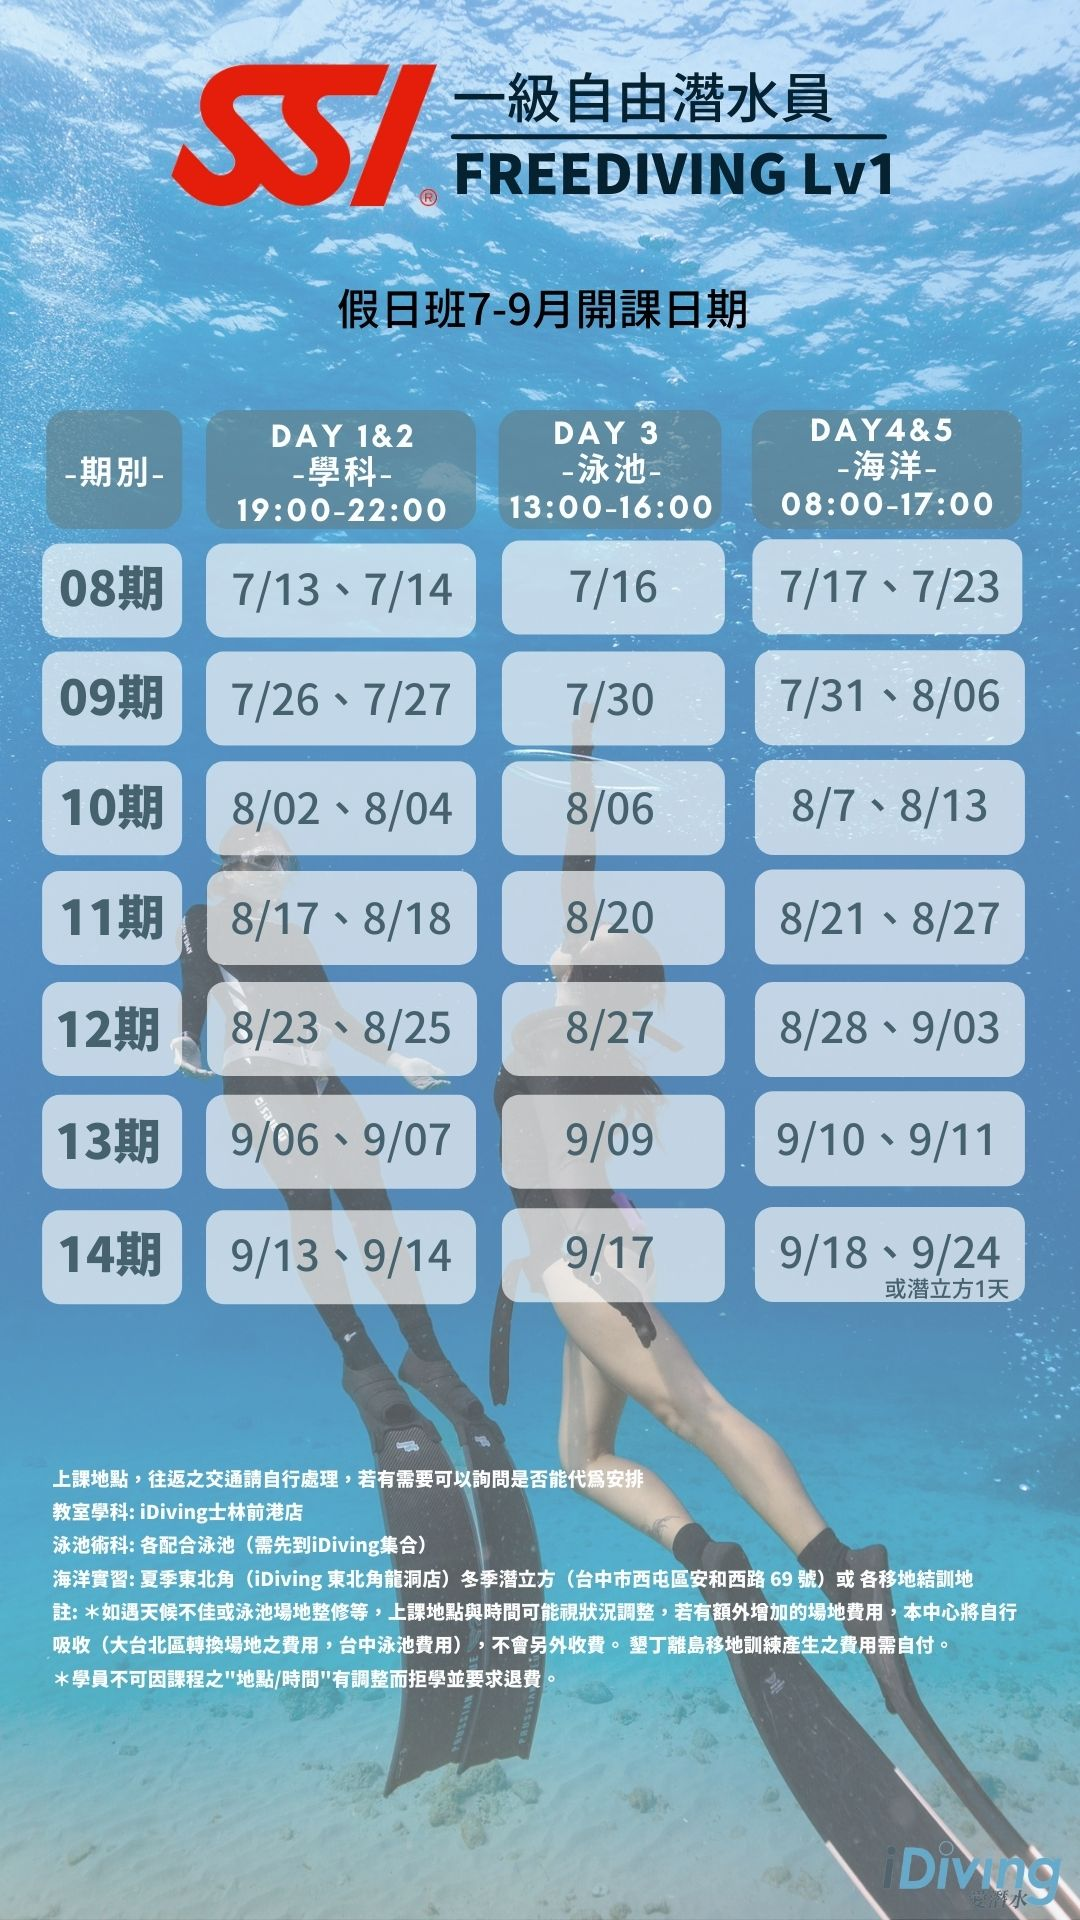
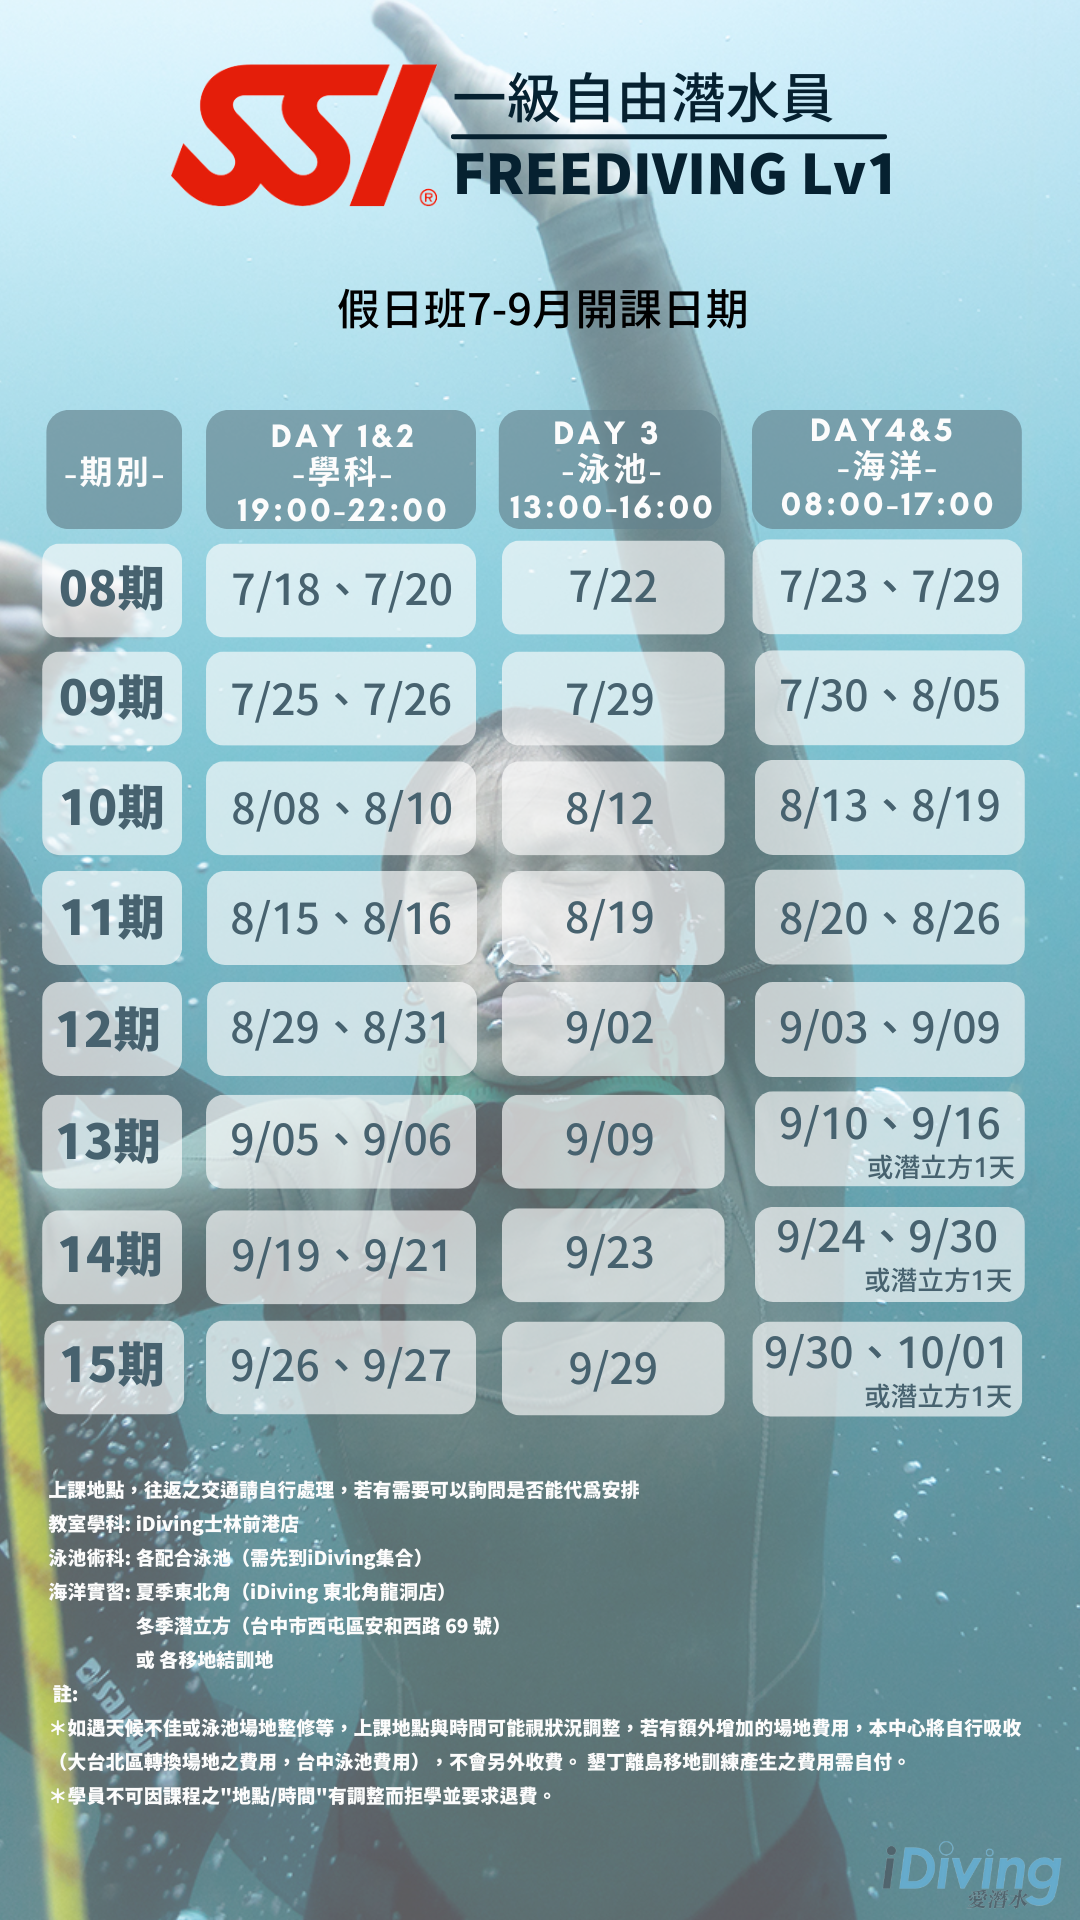
更新 課程 FD LV1 LV2 夏季假日班課程圖

diff --git a/src/app/pages/cfd210/cfd210.component.html b/src/app/pages/cfd210/cfd210.component.html
@@ -287,8 +287,8 @@
                     </tbody>
                 </table>
                 <br>
-                <img src="../../../../assets/Image/Data/FDLV2_Schedule.png" width="60%" style="display:block; margin:auto;"
-                    alt="潛水 潛水證照 水肺證照 水肺潛水課程 台北學潛水 潛水課程 東北角 龍洞灣 台北水肺潛水課程 水肺潛水" />
+                <img src="../../../../assets/Image/Data/FDLV2_Schedule.png" width="80%" style="display:block; margin:auto;" 
+                    alt="潛水 潛水證照 水肺證照 水肺潛水課程 台北學潛水 潛水課程 東北角 龍洞灣 台北水肺潛水課程 水肺潛水" >
             </div>
             <!-- 2級自由潛水 課程學費 -->
             <!-- 方案  -->

diff --git a/src/app/pages/cfd110/cfd110.component.ts b/src/app/pages/cfd110/cfd110.component.ts
@@ -28,14 +28,14 @@ export class Cfd110Component implements OnInit {
   
   //假日班
   Weekenders = [
-    //{img: '../../../../assets/Image/Data/FD_Weekend_Schedule_20221.png'},
+    {img: '../../../../assets/Image/Data/FD_Weekend_Schedule_20221.png'},
     {img: '../../../../assets/Image/Data/FD_Weekend_Schedule_20222.png'},
   ];
   
   //平日班
   Weekdays = [
-    {img: '../../../../assets/Image/Data/FD_Weekdays_Schedule_20222.png'},
     {img: '../../../../assets/Image/Data/FD_Weekdays_Schedule_20221.png'},
+    {img: '../../../../assets/Image/Data/FD_Weekdays_Schedule_20222.png'},
   ];
 
   constructor() { }
